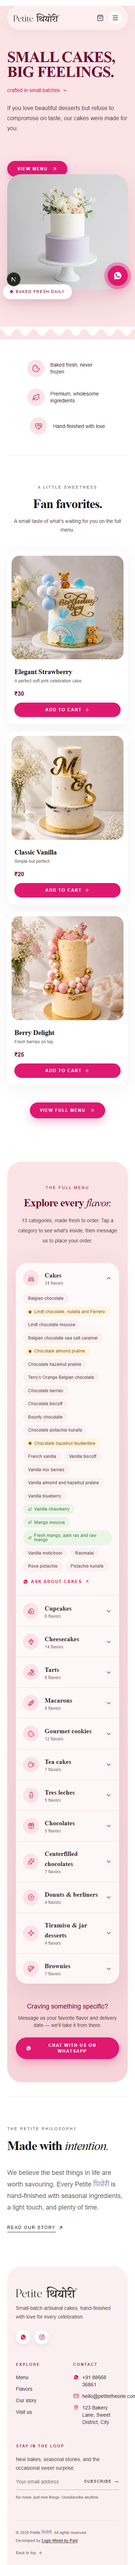
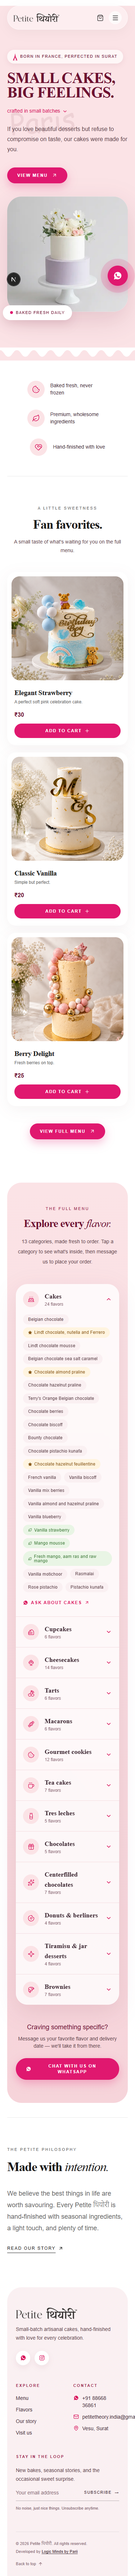
fix: update footer with founder info and full address

diff --git a/frontend/src/components/home/HeroSection.tsx b/frontend/src/components/home/HeroSection.tsx
@@ -7,6 +7,7 @@ import { useEffect, useRef } from "react";
 import gsap from "gsap";
 import Leaf from "./Leaf";
 import BerryBlob from "./BerryBlob";
+import EiffelTowerIcon from "./EiffelTowerIcon";
 
 export default function HeroSection() {
   const sectionRef = useRef<HTMLElement>(null);
@@ -18,21 +19,12 @@ export default function HeroSection() {
 
   useEffect(() => {
     const ctx = gsap.context(() => {
-      gsap.from(".hero-reveal", {
-        y: 40,
-        opacity: 0,
-        duration: 1.2,
-        stagger: 0.15,
-        ease: "power3.out",
-        delay: 0.2,
-      });
-
       gsap.from(imageRef.current, {
         scale: 0.9,
         opacity: 0,
         duration: 1.5,
         ease: "power3.out",
-        delay: 0.4,
+        delay: 0.2,
       });
 
       gsap.to(imageRef.current, {
@@ -41,7 +33,7 @@ export default function HeroSection() {
         repeat: -1,
         yoyo: true,
         ease: "sine.inOut",
-        delay: 1.5,
+        delay: 1.3,
       });
 
       gsap.from(badgeRef.current, {
@@ -49,7 +41,7 @@ export default function HeroSection() {
         opacity: 0,
         duration: 0.8,
         ease: "back.out(1.7)",
-        delay: 1.2,
+        delay: 1,
       });
 
       [leaf1.current, leaf2.current, leaf3.current].forEach((leaf, i) => {
@@ -73,6 +65,15 @@ export default function HeroSection() {
       id="top"
       className="relative grid items-center gap-10 pb-24 pt-8 sm:pb-32 lg:grid-cols-[0.95fr_1.05fr] lg:gap-16 lg:pb-40 lg:pt-12"
     >
+      <div
+        aria-hidden="true"
+        className="pointer-events-none absolute inset-0 overflow-hidden select-none"
+      >
+        <span className="absolute left-[2%] top-[22%] -rotate-6 whitespace-nowrap font-script text-[5rem] leading-none text-[#6d1130]/9 sm:left-[-2%] sm:top-[10%] sm:text-[11rem] lg:top-[14%] lg:text-[15rem]">
+          Paris
+        </span>
+      </div>
+
       <div ref={leaf1} className="pointer-events-none absolute -left-3 top-[6%] hidden sm:block">
         <Leaf className="h-12 w-8 -rotate-[20deg] opacity-80" />
       </div>
@@ -84,22 +85,26 @@ export default function HeroSection() {
       </div>
 
       <div className="relative max-w-xl">
-        <h1 className="hero-reveal font-display text-[clamp(2.6rem,6.4vw,5.4rem)] font-bold uppercase leading-[0.98] tracking-[-0.02em] text-[#6d1130]">
+        <div className="mb-5 inline-flex items-center gap-2 rounded-full bg-white/70 px-4 py-2 font-body text-[0.68rem] font-medium uppercase tracking-[0.14em] text-[#6d1130] shadow-[0_4px_14px_rgba(109,17,48,0.08)]">
+          <EiffelTowerIcon size={12} className="text-[#d81159]" />
+          Born in France, perfected in Surat
+        </div>
+        <h1 className="font-display text-[clamp(2.6rem,6.4vw,5.4rem)] font-bold uppercase leading-[0.98] tracking-[-0.02em] text-[#6d1130]">
           Small cakes,
           <br />
           big feelings.
         </h1>
-        <p className="hero-reveal mt-5 inline-flex items-center gap-1.5 font-body text-sm font-medium text-[#d81159]">
+        <p className="mt-5 inline-flex items-center gap-1.5 font-body text-sm font-medium text-[#d81159]">
           crafted in small batches
           <ChevronDown size={15} className="mt-0.5" />
         </p>
-        <p className="hero-reveal mt-6 max-w-sm font-body text-base font-light leading-7 text-[#5b4048] sm:text-lg">
+        <p className="mt-6 max-w-sm font-body text-base font-light leading-7 text-[#5b4048] sm:text-lg">
           If you love beautiful desserts but refuse to compromise on taste, our
           cakes were made for you.
         </p>
         <Link
           href="/#creations"
-          className="hero-reveal mt-9 inline-flex items-center gap-3 rounded-full bg-[#e0186f] px-7 py-3.5 font-body text-xs font-semibold uppercase tracking-[0.14em] text-white shadow-[0_10px_25px_rgba(224,24,111,0.28)] transition-transform hover:-translate-y-1"
+          className="mt-9 inline-flex items-center gap-3 rounded-full bg-[#e0186f] px-7 py-3.5 font-body text-xs font-semibold uppercase tracking-[0.14em] text-white shadow-[0_10px_25px_rgba(224,24,111,0.28)] transition-transform hover:-translate-y-1"
         >
           View menu <ArrowUpRight size={15} />
         </Link>

diff --git a/frontend/src/components/shared/Footer.tsx b/frontend/src/components/shared/Footer.tsx
@@ -8,9 +8,10 @@ import WhatsAppIcon from "./WhatsAppIcon";
 
 const WHATSAPP_NUMBER = "918866836861";
 const WHATSAPP_DISPLAY = "+91 88668 36861";
-const EMAIL = "hello@petitetheorie.com";
-const INSTAGRAM_HANDLE = "@petitetheorie";
-const ADDRESS = "123 Bakery Lane, Sweet District, City";
+const EMAIL = "petitetheory.india@gmail.com";
+const INSTAGRAM_HANDLE = "petitetheory.india";
+const ADDRESS = "UG-37, Highfield Ascot, Vesu, Surat, Gujarat 395007";
+const MAPS_LINK = "https://maps.app.goo.gl/k2bVHMZ1a1fWtMnB6?g_st=ic";
 
 const EXPLORE_LINKS = [
   { href: "/shop", label: "Menu" },
@@ -61,6 +62,8 @@ export default function Footer() {
             <Image src="/logo-wordmark.png" alt="Petite थियोरी" width={1670} height={314} className="h-8 w-auto" />
             <p className="mt-4 max-w-xs font-body text-sm font-light leading-6 text-[#5b4048]">
               Small-batch artisanal cakes, hand-finished with love for every celebration.
+              <br /><br />
+              <strong>Founder:</strong> Chef. Priyanshi
             </p>
             <div className="mt-6 flex items-center gap-3">
               <a
@@ -73,7 +76,7 @@ export default function Footer() {
                 <WhatsAppIcon size={17} />
               </a>
               <a
-                href="https://instagram.com/petitetheorie"
+                href={`https://instagram.com/${INSTAGRAM_HANDLE}`}
                 target="_blank"
                 rel="noopener noreferrer"
                 aria-label="Follow us on Instagram"
@@ -113,8 +116,10 @@ export default function Footer() {
                 </a>
               </li>
               <li className="flex items-start gap-2.5">
-                <MapPin size={15} className="mt-0.5 shrink-0 text-[#d81159]" />
-                <span>{ADDRESS}</span>
+                <a href={MAPS_LINK} target="_blank" rel="noopener noreferrer" className="flex items-start gap-2.5 transition-colors hover:text-[#d81159]">
+                  <MapPin size={15} className="mt-0.5 shrink-0 text-[#d81159]" />
+                  <span className="max-w-[200px]">{ADDRESS}</span>
+                </a>
               </li>
             </ul>
           </div>

diff --git a/frontend/src/app/contact/page.tsx b/frontend/src/app/contact/page.tsx
@@ -6,8 +6,8 @@ import PageHeader from "@/components/shared/PageHeader";
 
 const contactMethods = [
   { icon: MessageCircle, label: "WhatsApp", value: "+91 88668 36861", href: "https://wa.me/918866836861" },
-  { icon: Mail, label: "Email", value: "hello@petitetheorie.com", href: "mailto:hello@petitetheorie.com" },
-  { icon: Camera, label: "Instagram", value: "@petitetheorie", href: "https://instagram.com/petitetheorie" },
+  { icon: Mail, label: "Email", value: "petitetheory.india@gmail.com", href: "mailto:petitetheory.india@gmail.com" },
+  { icon: Camera, label: "Instagram", value: "@petitetheory.india", href: "https://instagram.com/petitetheory.india" },
 ];
 
 export default function ContactPage() {
@@ -46,7 +46,7 @@ export default function ContactPage() {
             <div>
               <p className="font-body text-[0.68rem] uppercase tracking-[0.25em] text-[#a1284f]">Find us</p>
               <h2 className="mt-3 font-display text-2xl font-semibold text-[#6d1130] sm:text-3xl">
-                123 Bakery Lane, Sweet District, City
+                Vesu, Surat
               </h2>
             </div>
           </div>

diff --git a/frontend/src/app/globals.css b/frontend/src/app/globals.css
@@ -1,10 +1,11 @@
-@import url('https://fonts.googleapis.com/css2?family=Playfair+Display:ital,wght@0,400;0,600;0,700;1,400;1,600&family=Outfit:wght@300;400;500;600&family=Amita:wght@400;700&display=swap');
+@import url('https://fonts.googleapis.com/css2?family=Playfair+Display:ital,wght@0,400;0,600;0,700;1,400;1,600&family=Outfit:wght@300;400;500;600&family=Amita:wght@400;700&family=Parisienne&display=swap');
 @import "tailwindcss";
 
 @theme {
   --font-brand: var(--font-logo), cursive;
   --font-display: var(--font-heading), serif;
   --font-body: var(--font-body), sans-serif;
+  --font-script: "Parisienne", cursive;
 }
 
 @layer base {

diff --git a/frontend/src/components/home/EiffelTowerIcon.tsx b/frontend/src/components/home/EiffelTowerIcon.tsx
@@ -1,0 +1,15 @@
+export default function EiffelTowerIcon({ size = 18, className = "" }: { size?: number; className?: string }) {
+  return (
+    <svg
+      width={size}
+      height={(size * 180) / 100}
+      viewBox="0 0 100 180"
+      fill="currentColor"
+      fillRule="evenodd"
+      className={className}
+      aria-hidden="true"
+    >
+      <path d="M50,0 L52,38 L58,40 L55,42 L63,95 L72,98 L67,101 L88,145 L98,176 L100,180 L0,180 L2,176 L12,145 L33,101 L28,98 L37,95 L45,42 L42,40 L48,38 Z M50,103 L22,178 L78,178 Z" />
+    </svg>
+  );
+}
